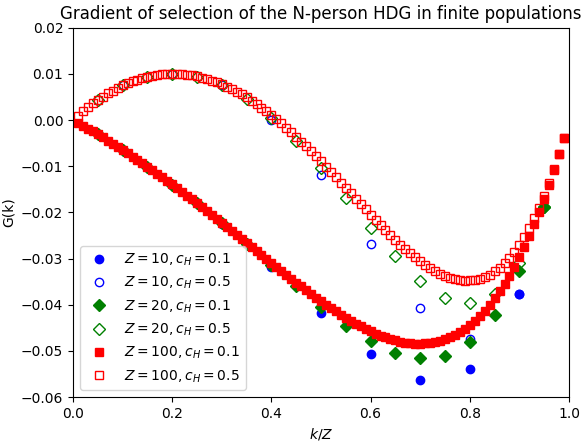
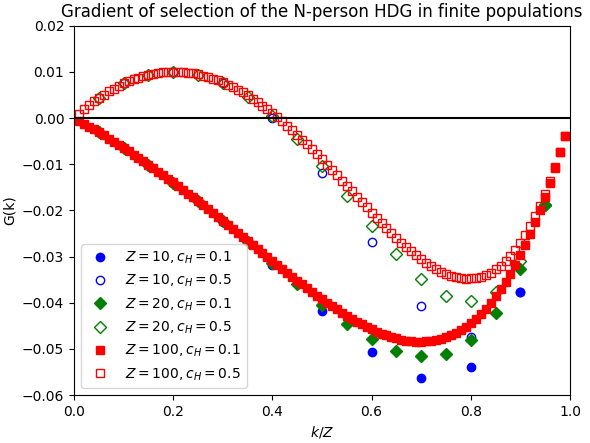
add line to gradient finite

diff --git a/finite_populations.py b/finite_populations.py
@@ -111,6 +111,7 @@ class FiniteNPlayerHDGDynamics:
             for j, c in enumerate(costs):
                 rep_dyn = FiniteNPlayerHDGDynamics(Z=z, N=N, w=1)
                 rep_dyn.plot_gradient_selection(c, markers[i], edge_colors[i], face_colors[(z, c)], f'$Z = {z}, c_H = {c}$')
+        plt.plot([0,1], [0,0], color='black')
         plt.xlabel(f'$k/Z$')
         plt.ylabel(f'G(k)')
         plt.xlim(0, 1)
@@ -360,14 +361,14 @@ def plot_equilibria(Z: int, w: float):
 
 if __name__ == "__main__":
     #finite = FiniteNPlayerHDGDynamics(Z=100, )
-    #FiniteNPlayerHDGDynamics.plot_hdg_gradient()
+    FiniteNPlayerHDGDynamics.plot_hdg_gradient()
     #fig, gradient = finite.plot_gradient_selection(0.5)
     #plt.show()
     #gradient[40] = 0.0
     #print(gradient[39:44])
     #print(finite.find_equilibrium(gradient))
     #plot_equilibria(100, 1)
-    FiniteNPlayerHDGTDynamics.plot_c_d_equilibria(T=0.8)
+    #FiniteNPlayerHDGTDynamics.plot_c_d_equilibria(T=0.8)
 
 
 
